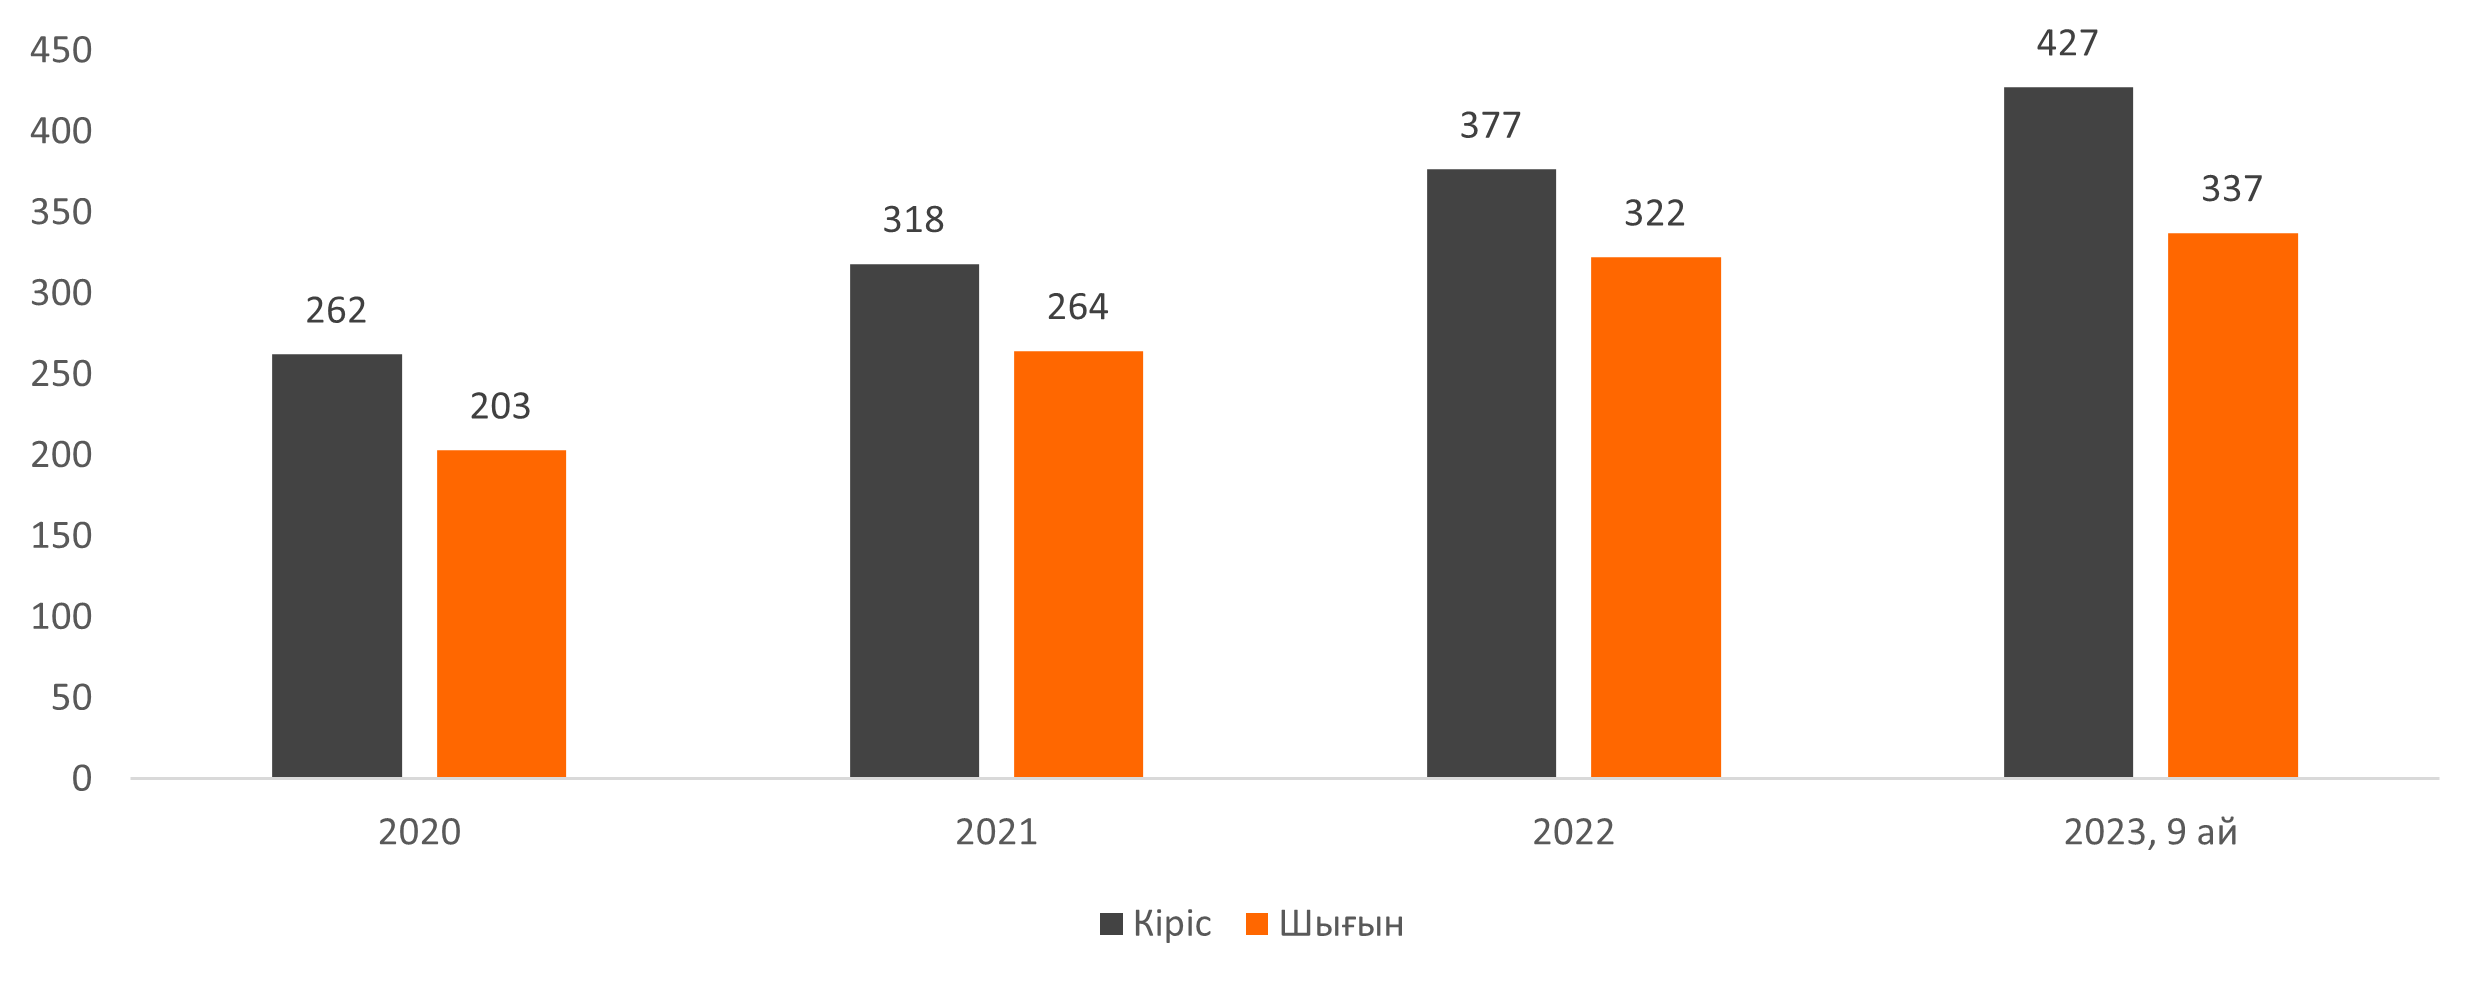
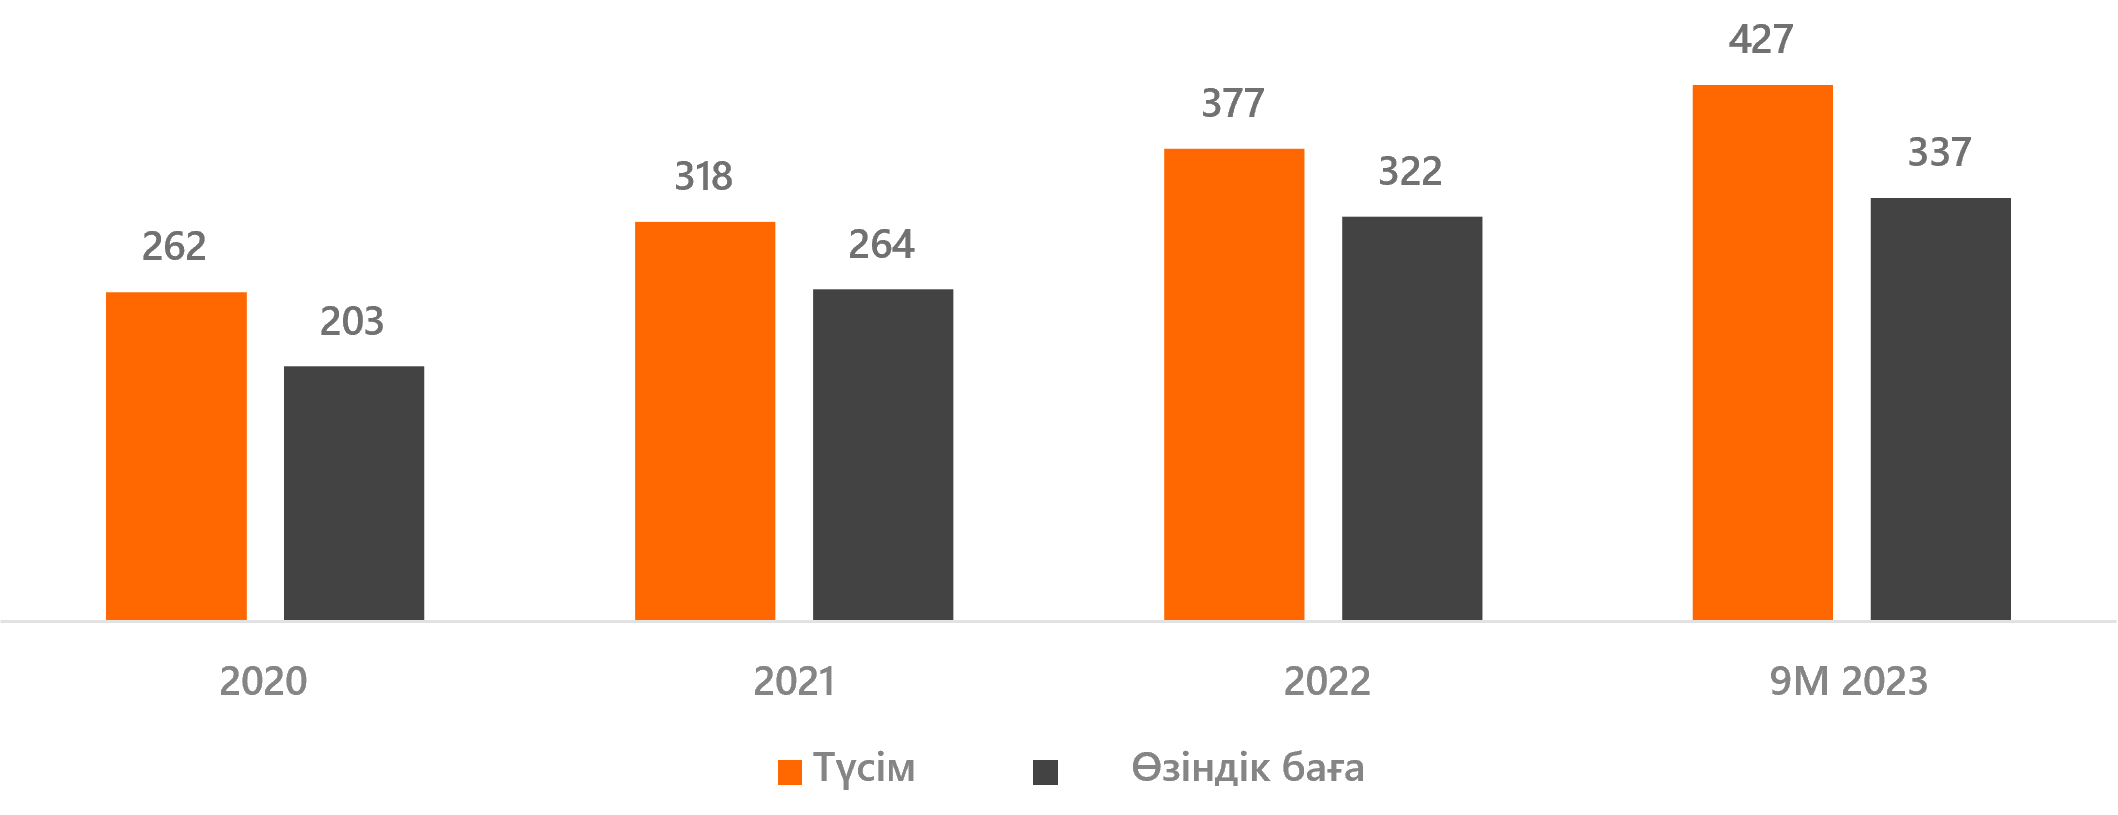
bidevkz

diff --git a/bidev2-kz.html b/bidev2-kz.html
@@ -176,7 +176,7 @@
             <div class="align-items-center main uk-flex uk-flex-middle uk-flex-between align-items-center text-center-mob">
                 <div class="text-main">
                     <h1 class="dev-h1 dev-w" style="margin-bottom: 5px;">Теңгеде 20% жылдық мөлшерлемемен табыс табыңыз</h1> 
-                    <h3 class="ji-mid ji-gray">BI Development облигациялары. 10 000&nbsp;теңгеден&nbsp;басталады</h3>
+                    <h3 class="ji-mid ji-gray">BI Development облигациялары 10 000&nbsp;теңгеден&nbsp;басталады</h3>
                     <button style="margin-top: 64px;" class="d-none d-lg-block btn-orange-new text-white ac-button" type="button" uk-toggle="target: #modal-demo">Өтінім қалдыру</button>                 
                 </div> 
                 <div class="">
@@ -209,12 +209,12 @@
                       </tr>
                       <tr>
                         <td class="dev-fBig">Шығарылым көлемі</td>
-                        <td class="dev-fSml">$ 12 000 000</td>
+                        <td class="dev-fSml">KZT 12 000 000</td>
                       </tr>
                       <tr class="pos-r">
                         <td class="dev-fBig">Номиналды құны <img class="active" src="assets/img/dev-des/about.svg" alt=""><div class="new-bl">Это сумма, которую владелец облигации получит в момент ее погашения. 
                           Кроме того, именно с этой суммы рассчитывается процент купонного дохода по облигациям.</div></td>
-                        <td class="dev-fSml">10 000 KZT</td>
+                        <td class="dev-fSml">KZT 10 000</td>
                       </tr>
                       <tr class="pos-r">
                         <td class="dev-fBig">Индикативті кіріс <img class="active" src="assets/img/dev-des/about.svg" alt=""><div class="new-bl">Индикативная доходность показывает ожидаемую годовую прибыль от облигации, выраженную в процентах от ее номинальной стоимости. 
@@ -445,7 +445,7 @@
 <section class="section" id="dev-4">
   <div class="uk-container">
       <div class="ji-bg-white dev-pad pos-r m-b-40" style="border-radius: 24px;">
-        <div class="ji-dev">О компании</div>
+        <div class="ji-dev">Компания туралы</div>
         <div class="uk-animation-toggle"> 
           <div class="padB-43">
             <div class="dev-grid">
@@ -502,8 +502,8 @@
 
                 <div class="dev5">
                   <div>
-                    <div class="ji-h2-stat">427 млрд теңге немесе</div>
-                    <div class="dev-subtitle">Эмитенттің арқасында Холдинг
+                    <div class="ji-h2-stat">427 млрд теңге </div>
+                    <div class="dev-subtitle">немесе Эмитенттің арқасында Холдинг
                       өзінің ~71% табысын тапқан</div>
                   </div>
                   
@@ -537,7 +537,7 @@
             <div class="accordion-item accordion-ques">
               <div class="accordion-header ji-body-xs footer-color-h" id="headingElev">
                 <button style="text-align: left;" class="dev-que accordion-button collapsed" type="button" data-bs-toggle="collapse" data-bs-target="#collapseElev" aria-expanded="false" aria-controls="collapseElev">
-                  <p>Сатудан түскен кіріс пен шығын, <span>млрд теңге</span></p>
+                  <p>Түсім және өзіндік құны, <span>млрд теңге</span></p>
                 </button>
               </div>
               <div id="collapseElev" class="accordion-collapse collapse" aria-labelledby="headingElev" data-bs-parent="#accordionExample">
@@ -570,7 +570,7 @@
              <div class="accordion-item accordion-ques">
                 <div class="accordion-header ji-body-xs footer-color-h" id="headingElevTwo">
                   <button class="dev-que accordion-button collapsed" type="button" data-bs-toggle="collapse" data-bs-target="#collapseElevTwo" aria-expanded="false" aria-controls="collapseElevTwo">
-                   <p>Таза пайда, <span>млрд теңге</span></p>  
+                   <p>Таза табыс, <span>млрд теңге</span></p>  
                   </button>
                 </div>
                 <div id="collapseElevTwo" class="accordion-collapse collapse" aria-labelledby="headingElevTwo" data-bs-parent="#accordionExample">
@@ -603,7 +603,7 @@
             <div class="accordion-item accordion-ques">
               <div class="accordion-header ji-body-xs footer-color-h" id="headingElevThree">
                 <button class="dev-que accordion-button collapsed" type="button" data-bs-toggle="collapse" data-bs-target="#collapseElevThree" aria-expanded="false" aria-controls="collapseElevThree">
-                 <p>Активы және капитал, <span>млрд теңге</span></p> 
+                 <p>Активтер және капитал, <span>млрд теңге</span></p> 
                 </button>
               </div>
               <div id="collapseElevThree" class="accordion-collapse collapse" aria-labelledby="headingElevThree" data-bs-parent="#accordionExample">
